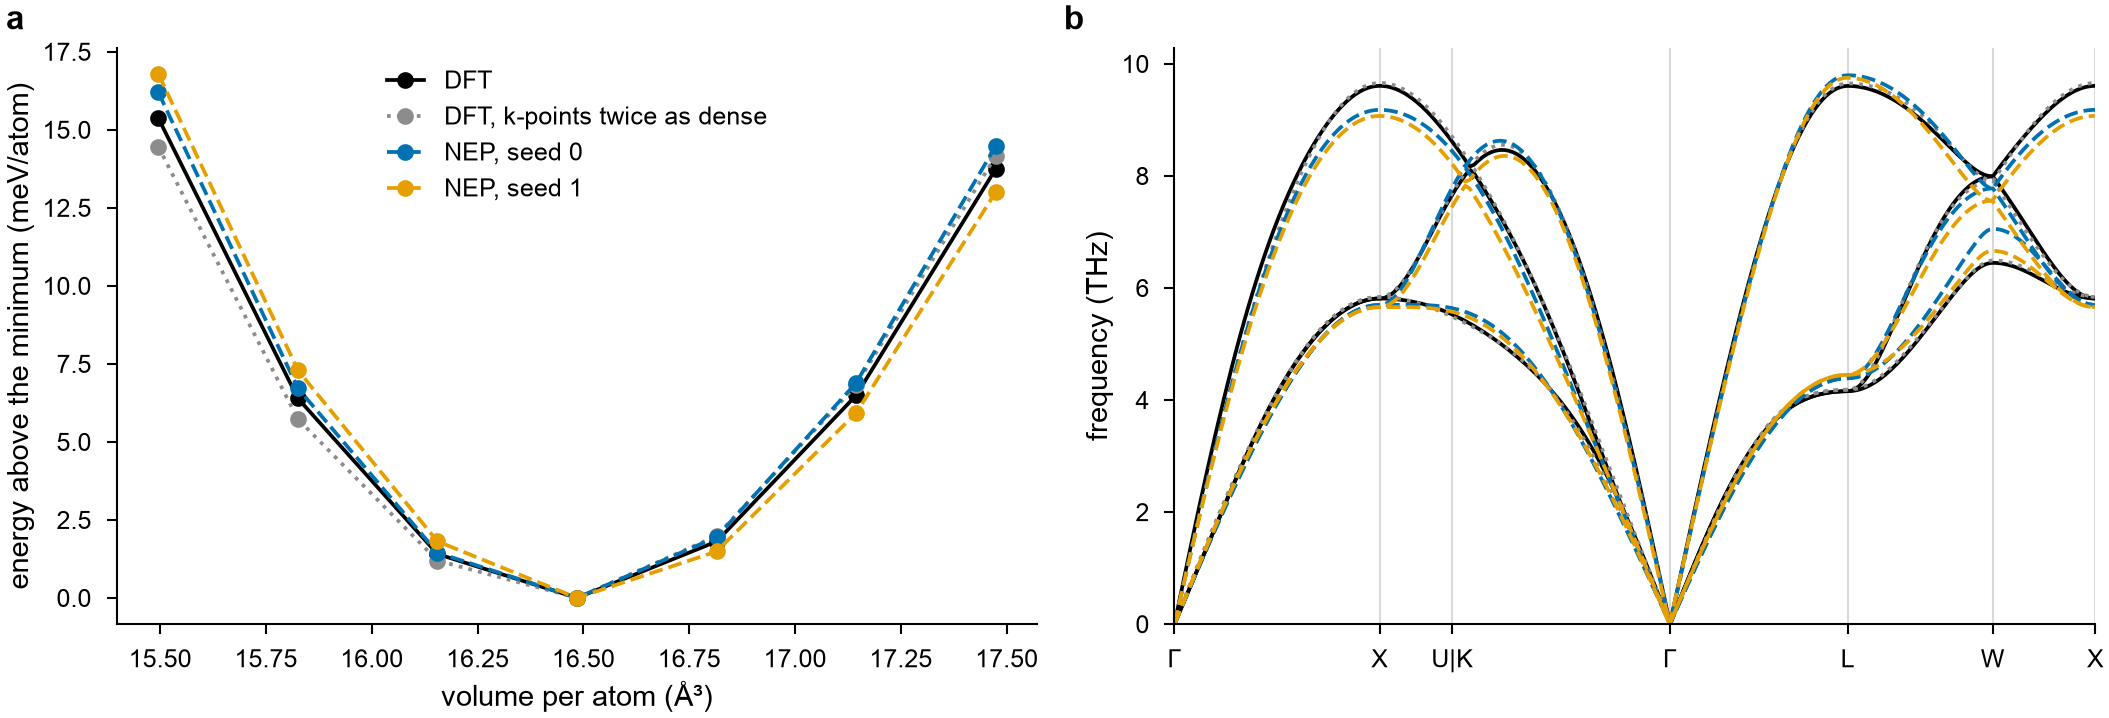
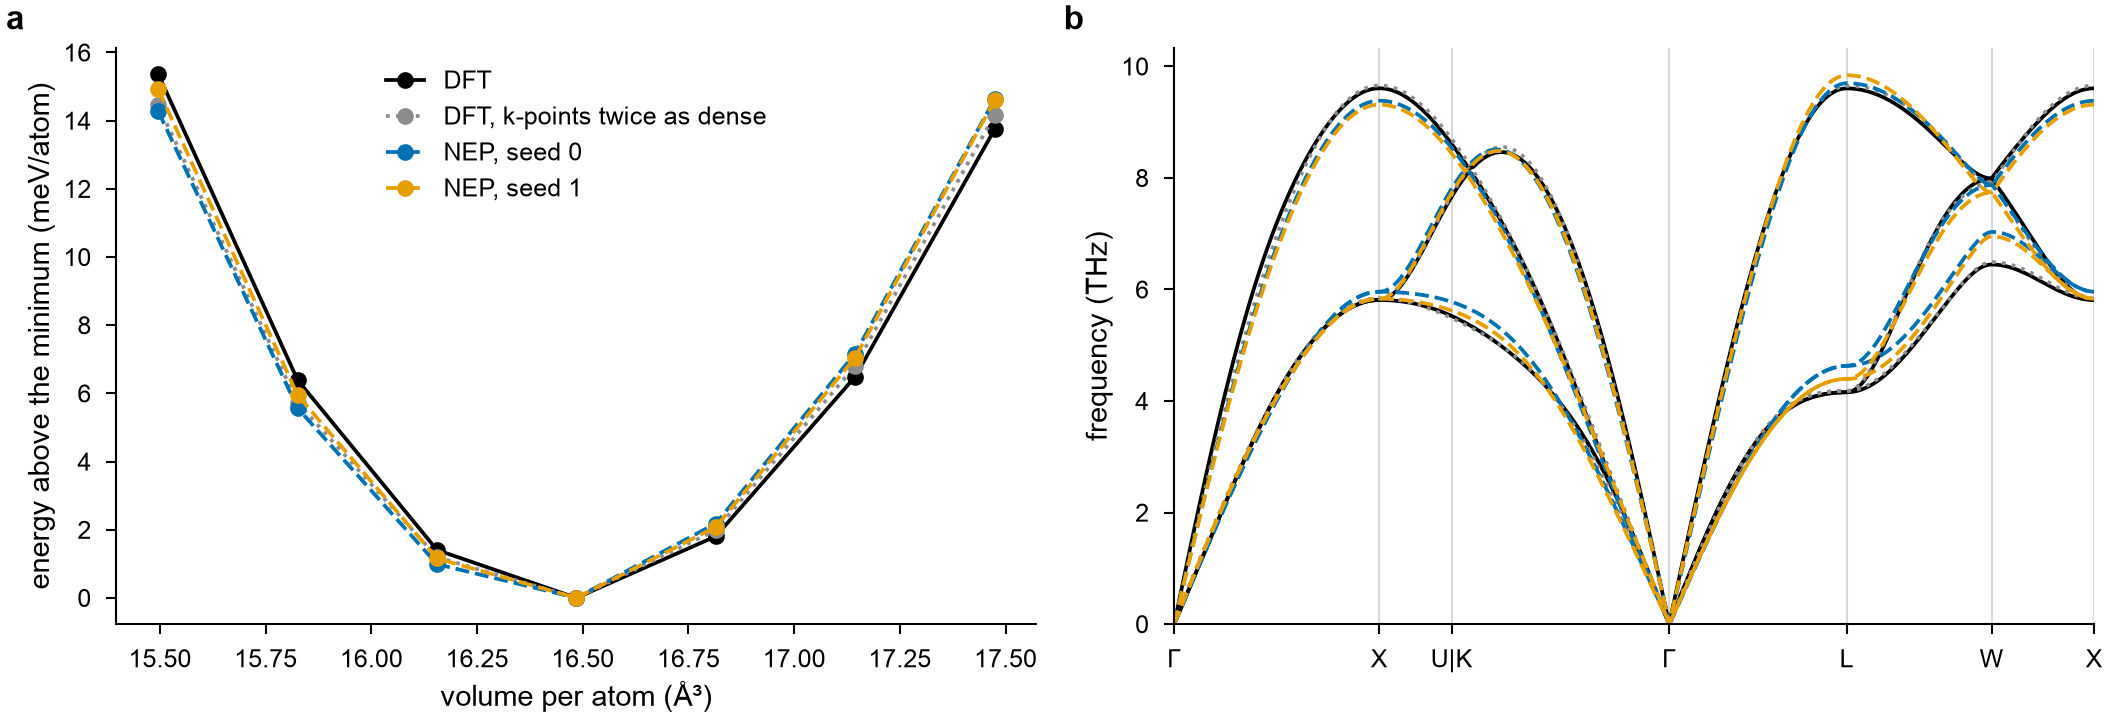
Docs: the Al example learns every cell, those within 2 eV/atom of the lowest weighing 20 times (n_max 8 8, 24 near-equilibrium hcp cells added): test energy 10.7 and 13.6 meV/atom within 2 eV, 29 over all; and far from the crystal, the stacking fault against the DFT's (intrinsic 77 and 82 against 14

diff --git a/docs/examples/dft-potential/dft_training.py b/docs/examples/dft-potential/dft_training.py
@@ -6,18 +6,19 @@
 """A NEP model of aluminium trained on labels of MDAPY's DFT, and its properties
 against those of the DFT itself.
 
-    python dft_training.py sets                 # train.xyz, near.xyz and test.xyz, unlabelled
+    python dft_training.py sets                 # train.xyz, near.xyz, near-hcp.xyz and test.xyz, unlabelled
     python dft_training.py atom                 # atom.json: the energy of the isolated atom
     python dft_training.py label SET PART PARTS # labels of the frames i % PARTS == PART of SET
     python dft_training.py train SEED           # nep_SEED/nep_best.txt, its loss.out
     python dft_training.py errors               # errors.json: the models on the test frames
     python dft_training.py properties WHO       # properties-WHO.json, WHO = dft, dft-fine or nep_SEED
+    python dft_training.py hugoniot SEED        # the Hugoniot of nep_SEED into properties-nep_SEED.json
 
 The structures are the "generated + crystals" set of the page on generated
 training sets for aluminium: two thirds of the atoms from generate_structures,
 one third perturbed fcc, bcc and hcp crystals, 4800 atoms; with them fcc
-crystals near equilibrium, 864 atoms; the test frames another generation and
-other crystals, 1200 atoms. The models learn the energies relative to the
+crystals near equilibrium, 864 atoms, and hcp crystals, 216 atoms; the test
+frames another generation and other crystals, 1200 atoms. The models learn the energies relative to the
 isolated atom.
 """
 
@@ -44,7 +45,7 @@ hcp = build_crystal("hcp", 2.86, elements="Al", repeat=(3, 2, 2))
 NEP_IN = """type       1 Al
 version    4
 cutoff     6 4
-n_max      6 6
+n_max      8 8
 basis_size 8 8
 l_max      4 2 0
 neuron     50
@@ -67,6 +68,9 @@ def pseudopotential() -> Path:
 
 
 KSPACING, SMEARING, SIGMA = 0.15, "marzari-vanderbilt", 0.25  # 1/Å, eV
+EV_PER_A3_TO_GPA = 160.21766208
+# the cells within WINDOW eV/atom of the lowest weigh WEIGHT times in the training
+WINDOW, WEIGHT = 2.0, 20.0
 
 
 def dft(kspacing=KSPACING, **extra):
@@ -109,11 +113,16 @@ def crystals(seed, atoms):
     return first(frames, atoms)
 
 
-def near(seed, cells):
-    """fcc near equilibrium: volumes from 90 to 110 %, strains up to 2 %, atoms
-    displaced by 0.03 Å; cells of 4 and of 32 atoms in turn."""
+def near(seed, cells, kind="fcc"):
+    """Crystals near equilibrium: volumes from 90 to 110 %, strains up to 2 %,
+    atoms displaced by 0.03 Å; cells of the unit (4 atoms of fcc, 2 of hcp)
+    and of 2 x 2 x 2 of it in turn."""
     rng = np.random.default_rng(seed)
-    unit = build_crystal("fcc", 4.04, elements="Al")
+    unit = (
+        build_crystal("fcc", 4.04, elements="Al")
+        if kind == "fcc"
+        else build_crystal("hcp", 4.04 / np.sqrt(2), elements="Al")
+    )
     frames = []
     for k in range(cells):
         crystal = unit if k % 2 == 0 else replicate(unit, (2, 2, 2))
@@ -137,12 +146,18 @@ def mixed(parts, shares, budget):
 
 
 def sets():
-    generated = generate_structures("Al", volume=VOLUME, seed=0).structures
-    write("train.xyz", mixed([generated, crystals(50, 4800)], [2, 1], 4800))
-    write("near.xyz", near(51, 48))
-    other = generate_structures("Al", volume=VOLUME, seed=7).structures
-    write("test.xyz", mixed([other, crystals(57, 1200)], [2, 1], 1200))
-    for name in ("train", "near", "test"):
+    """The sets not written yet."""
+    if not Path("train.xyz").exists():
+        generated = generate_structures("Al", volume=VOLUME, seed=0).structures
+        write("train.xyz", mixed([generated, crystals(50, 4800)], [2, 1], 4800))
+    if not Path("near.xyz").exists():
+        write("near.xyz", near(51, 48))
+    if not Path("near-hcp.xyz").exists():
+        write("near-hcp.xyz", near(52, 24, "hcp"))
+    if not Path("test.xyz").exists():
+        other = generate_structures("Al", volume=VOLUME, seed=7).structures
+        write("test.xyz", mixed([other, crystals(57, 1200)], [2, 1], 1200))
+    for name in ("train", "near", "near-hcp", "test"):
         frames = list(read_trajectory(f"{name}.xyz"))
         print(
             name,
@@ -187,19 +202,32 @@ def merged(name):
     return [f.with_info(energy=f.info["energy"] - len(f) * e_atom) for f in frames]
 
 
+def window(frames, lowest):
+    """The frames within WINDOW eV per atom of the energy lowest."""
+    return [f for f in frames if f.info["energy"] / len(f) < lowest + WINDOW]
+
+
+def lowest_energy():
+    """The lowest energy per atom of the training frames."""
+    frames = merged("train") + merged("near") + merged("near-hcp")
+    return min(f.info["energy"] / len(f) for f in frames)
+
+
 def train(seed):
-    """NEP of seed `seed` on the training frames, a tenth of them held out to
-    choose the best epoch; the test frames are not seen."""
+    """NEP of seed `seed` on every training frame, those within WINDOW of the
+    lowest weighing WEIGHT times; a tenth of them held out to choose the best
+    epoch; the test frames are not seen."""
     from torchnep import train_nep
 
     folder = Path(f"nep_{seed}")
     folder.mkdir(exist_ok=True)
-    frames = merged("train") + merged("near")
-    energies = [f.info["energy"] / len(f) for f in frames]
-    low = min(energies) + 0.5
-    frames = [
-        f.with_info(weight=3.0) if e < low else f for f, e in zip(frames, energies)
-    ]
+    every = merged("train") + merged("near") + merged("near-hcp")
+    near = {id(f) for f in window(every, lowest_energy())}
+    frames = [f.with_info(weight=WEIGHT) if id(f) in near else f for f in every]
+    print(
+        f"{len(near)} of {len(every)} frames within {WINDOW} eV/atom, weight {WEIGHT:g}",
+        flush=True,
+    )
     write(folder / "train.xyz", frames)
     atoms = sum(len(f) for f in frames)
     (folder / "nep.in").write_text(
@@ -212,15 +240,21 @@ def train(seed):
 
 
 def errors():
-    """The errors of each model on the test frames."""
+    """The errors of each model on every test frame and on those within WINDOW
+    of the lowest training energy."""
     from mdapy.calculators import NEP
 
-    frames = merged("test")
+    every = merged("test")
+    near = {id(f) for f in window(every, lowest_energy())}
+    print(
+        f"{len(near)} of {len(every)} test frames within {WINDOW} eV/atom", flush=True
+    )
     out = {}
     for folder in sorted(Path(".").glob("nep_*")):
         nep = NEP(str(folder / "nep_best.txt"))
-        de, df, dv, pe, pf = [], [], [], [], []
-        for frame in frames:
+        de, df, dv, pe, pf, inside = [], [], [], [], [], []
+        for frame in every:
+            inside.append(id(frame) in near)
             r = nep.compute(frame, ("energy", "forces", "virial"))
             n = len(frame)
             de.append((r.energy - frame.info["energy"]) / n)
@@ -243,17 +277,17 @@ def errors():
             f"predictions-{folder.name}.npz",
             energies=np.array(pe),
             forces=np.concatenate(pf),
+            inside=np.array(inside),
         )
 
-        def rmse(x):
-            return float(
-                np.sqrt(
-                    np.mean(np.square(np.concatenate([np.atleast_1d(v) for v in x])))
-                )
-            )
+        def rmse(x, keep):
+            x = [np.atleast_1d(v) for v, k in zip(x, keep) if k]
+            return float(np.sqrt(np.mean(np.square(np.concatenate(x)))))
 
-        out[folder.name] = {"energy_mev_per_atom": 1e3 * rmse(de), "force_ev_per_a": rmse(df),
-                            "virial_mev_per_atom": 1e3 * rmse(dv), "frames": len(frames)}  # fmt: skip
+        out[folder.name] = {}
+        for part, keep in (("all", [True] * len(every)), ("window", inside)):
+            out[folder.name][part] = {"energy_mev_per_atom": 1e3 * rmse(de, keep), "force_ev_per_a": rmse(df, keep),
+                                      "virial_mev_per_atom": 1e3 * rmse(dv, keep), "frames": sum(keep)}  # fmt: skip
     Path("errors.json").write_text(json.dumps(out, indent=1))
     print(out)
 
@@ -262,7 +296,11 @@ def properties(who):
     """The properties of the DFT or of a model, each written as soon as it is
     known into properties-WHO.json, those already there kept."""
     from mdapy.calculators import NEP
-    from mdapy.properties.defects import surface_energy, vacancy_formation_energy
+    from mdapy.properties.defects import (
+        stacking_fault_energy,
+        surface_energy,
+        vacancy_formation_energy,
+    )
     from mdapy.properties.elastic import elastic_constants
     from mdapy.properties.phonons import phonons, primitive_cell
 
@@ -326,6 +364,66 @@ def properties(who):
         keep(phonon_labels=[[float(d), str(name)] for d, name in bands.labels],
              phonon_distances=np.asarray(bands.distances).tolist(),
              phonon_frequencies_THz=np.asarray(bands.frequencies).tolist(), phonon_seconds=time.time() - t)  # fmt: skip
+    # the cold crystal compressed to 70 % of its volume
+    if "compression_GPa" not in out:
+        t, ratios, pressures, energies = time.time(), np.linspace(0.70, 1.0, 7), [], []
+        for s in ratios:
+            c = scaled(crystal, s)
+            r = calc.compute(c, ("energy", "virial"))
+            pressures.append(
+                float(np.trace(r.virial) / (3 * c.box.volume) * EV_PER_A3_TO_GPA)
+            )
+            energies.append(float(r.energy / len(c)))
+        keep(compression_ratios=ratios.tolist(), compression_GPa=pressures,
+             compression_energies=energies, compression_seconds=time.time() - t)  # fmt: skip
+    # (111) slipped along [11-2], 12 layers
+    if "gsfe_J_m2" not in out and who != "dft-fine":
+        t = time.time()
+        layers = build_crystal("fcc", out["a0"], elements="Al",
+                               orientation=[(1, 1, -2), (-1, 1, 0), (1, 1, 1)], repeat=(1, 1, 4))  # fmt: skip
+        curve = stacking_fault_energy(
+            layers, calc, [out["a0"] * np.sqrt(6) / 2, 0, 0], points=13, max_force=0.01
+        )
+        keep(gsfe_fraction=np.asarray(curve.fraction).tolist(),
+             gsfe_J_m2=np.asarray(curve.energy).tolist(), gsfe_seconds=time.time() - t)  # fmt: skip
+
+
+def hugoniot(seed):
+    """Points of the Hugoniot of the model of seed `seed`, from the crystal
+    of 2048 atoms at 300 K and no pressure: 20 ps of nphug alike along every
+    axis at each pressure, the last 10 ps averaged."""
+    from mdapy.calculators import NEP
+    from mdapy.simulation import MolecularDynamics
+
+    who = f"nep_{seed}"
+    path = Path(f"properties-{who}.json")
+    out = json.loads(path.read_text())
+    calc = NEP(f"{who}/nep_best.txt")
+    start = time.time()
+    crystal = build_crystal("fcc", out["a0"], elements="Al", repeat=8)
+    with MolecularDynamics(crystal, calc, timestep=0.001) as md:
+        md.velocities(600, seed=1)
+        md.run(10000, ensemble="npt", temperature=300, pressure=0.0, barostat="iso")
+        warm = md.system
+        md.run(0)
+        ambient = md.thermo[-1]
+    reference = (ambient["total_energy"][0], ambient["volume"][0], 0.0)
+    rows = []
+    for pressure in (10.0, 20.0, 30.0, 40.0, 50.0):
+        with MolecularDynamics(warm, calc, timestep=0.001) as md:
+            md.run(20000, ensemble="nphug", pressure=pressure, barostat="iso", hugoniot=reference,
+                   thermostat_damping=0.1, barostat_damping=1.0)  # fmt: skip
+            late = md.thermo.filter(md.thermo["time"] >= 10.0)
+        rows.append({"pressure_GPa": float(late["pressure"].mean()),
+                     "volume_ratio": float(late["volume"].mean() / reference[1]),
+                     "particle_velocity_km_s": float(late["particle_velocity"].mean() / 10),
+                     "shock_velocity_km_s": float(late["shock_velocity"].mean() / 10),
+                     "temperature_K": float(late["temperature"].mean()),
+                     "hugoniot_K": float(late["hugoniot"].mean())})  # fmt: skip
+        print(rows[-1], flush=True)
+    out.update(hugoniot=rows, hugoniot_density=float(len(crystal) * 26.9815385 / 0.602214076 / reference[1]),
+               hugoniot_seconds=time.time() - start)  # fmt: skip
+    path.write_text(json.dumps(out))
 
 
 if __name__ == "__main__":
@@ -343,3 +441,5 @@ if __name__ == "__main__":
         errors()
     elif command == "properties":
         properties(sys.argv[2])
+    elif command == "hugoniot":
+        hugoniot(int(sys.argv[2]))

diff --git a/docs/examples/dft-potential/figures.py b/docs/examples/dft-potential/figures.py
@@ -7,8 +7,10 @@
 dft_training.py and kconv.py in FOLDER: the training of the model of seed 0
 (torchnep's loss curves and the energies, forces and stresses of the training
 frames and of the tenth held out against the DFT); the equations of state and the phonons of
-the DFT and of the two models; and the elastic constants of the DFT against
-the mesh of k-points.
+the DFT and of the two models; the elastic constants of the DFT against
+the mesh of k-points; and far from the crystal, the stacking fault and the
+compression of the DFT and of the models and their Hugoniots against that
+measured.
 
     python figures.py FOLDER IMAGES
 """
@@ -36,6 +38,14 @@ style = {
     "nep_1": ("C1", "--"),
 }
 props = {k: json.loads((folder / f"properties-{k}.json").read_text()) for k in who}
+# the Hugoniot of aluminium 1100 measured: its density (g/cm³), the shock and the
+# particle velocities (km/s); Marsh (ed.), LASL Shock Hugoniot Data (1980), p. 165
+ALUMINIUM_1100 = np.array([
+    (2.713, 5.934, 0.426), (2.713, 5.804, 0.428), (2.713, 6.254, 0.526), (2.713, 6.132, 0.537),
+    (2.706, 6.347, 0.804), (2.713, 6.558, 0.884), (2.713, 6.624, 0.890), (2.706, 6.862, 1.164),
+    (2.713, 7.054, 1.197), (2.713, 6.979, 1.214), (2.713, 7.187, 1.327), (2.706, 7.348, 1.448),
+    (2.713, 7.534, 1.600), (2.706, 7.489, 1.606), (2.713, 7.785, 1.812),
+])  # fmt: skip
 
 NEPPlotter().dashboard(
     str(folder / "nep_0"), out=str(images / "dft-potential-training.png")
@@ -79,3 +89,36 @@ with plot.style():
     ax.set_ylim(0, 215)
     ax.legend(fontsize=5.5, ncols=2, loc="upper center")
     plot.save(fig, str(images / "dft-potential-kpoints"), formats=("png",))
+
+    # far from the crystal: the stacking fault, the compression and the Hugoniot
+    fig, (fault, pv, shock) = plot.figure("double", 52, nrows=1, ncols=3)
+    for k in ("dft", "nep_0", "nep_1"):
+        color, line = style[k]
+        p = props[k]
+        fault.plot(p["gsfe_fraction"], 1e3 * np.asarray(p["gsfe_J_m2"]), line, marker="o", ms=2.5, c=color,
+                   lw=0.9, label=who[k])  # fmt: skip
+        pv.plot(p["compression_ratios"], p["compression_GPa"], line, c=color, lw=0.9, label=f"{who[k]}, 0 K")  # fmt: skip
+        if "hugoniot" in p:
+            h = p["hugoniot"]
+            pv.plot([r["volume_ratio"] for r in h], [r["pressure_GPa"] for r in h], "s", ms=3, c=color,
+                    mfc="none", label=f"{who[k]}, Hugoniot")  # fmt: skip
+            shock.plot([r["particle_velocity_km_s"] for r in h], [r["shock_velocity_km_s"] for r in h], "s",
+                       ms=3, c=color, mfc="none", label=who[k])  # fmt: skip
+    rho0, us, up = ALUMINIUM_1100.T
+    pv.plot(1 - up / us, rho0 * us * up, "o", ms=2.5, c="0.4", label="experiment")
+    shock.plot(up, us, "o", ms=2.5, c="0.4", label="experiment")
+    u = np.linspace(0, 2.25, 10)
+    shock.plot(u, 5.392 + 1.341 * u, "-", c="0.75", lw=0.8, zorder=0, label="its fit")
+    fault.set(
+        xlabel=r"slip along [11$\bar{2}$], of a√6/2",
+        ylabel="energy (mJ/m²)",
+        xlim=(0, 1),
+    )
+    fault.legend(fontsize=5.5)
+    pv.set(xlabel=r"$V\,/\,V_0$", ylabel="pressure (GPa)")
+    pv.legend(fontsize=5)
+    shock.set(xlabel="particle velocity (km/s)", ylabel="shock velocity (km/s)")
+    shock.legend(fontsize=5.5)
+    for ax, label in zip((fault, pv, shock), "abc"):
+        plot.panel_label(ax, label)
+    plot.save(fig, str(images / "dft-potential-far"), formats=("png",))

diff --git a/docs/reference/references.md b/docs/reference/references.md
@@ -430,6 +430,10 @@ on Si(001), *Comput. Phys. Commun.* **205**, 13 (2016).
 [doi:10.1016/j.cpc.2016.04.001](https://doi.org/10.1016/j.cpc.2016.04.001)
 { #maras2016 }
 
+**Marsh (1980).** S. P. Marsh (editor), *LASL Shock Hugoniot Data* (University of
+California Press, Berkeley, 1980).
+{ #marsh1980 }
+
 **Martyna et al. (1994).** G. J. Martyna, D. J. Tobias and M. L. Klein,
 Constant pressure molecular dynamics algorithms, *J. Chem. Phys.* **101**, 4177
 (1994). [doi:10.1063/1.467468](https://doi.org/10.1063/1.467468)
